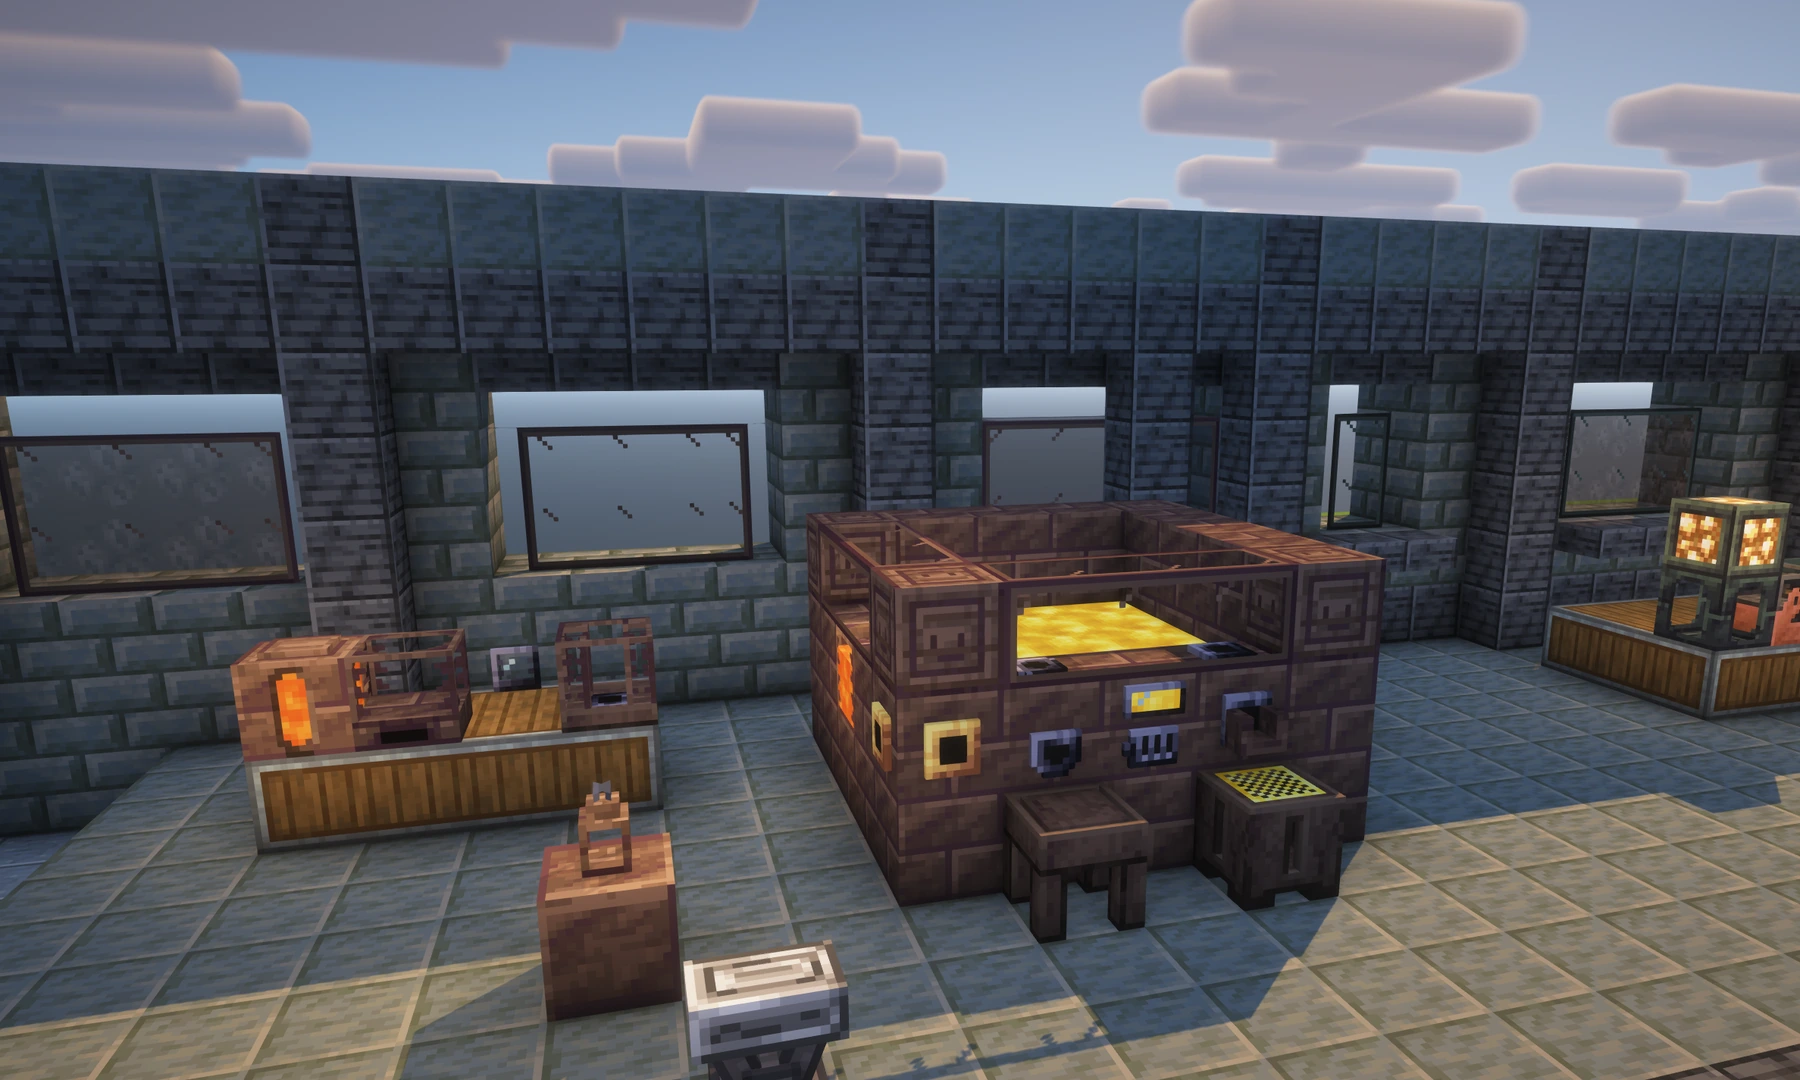
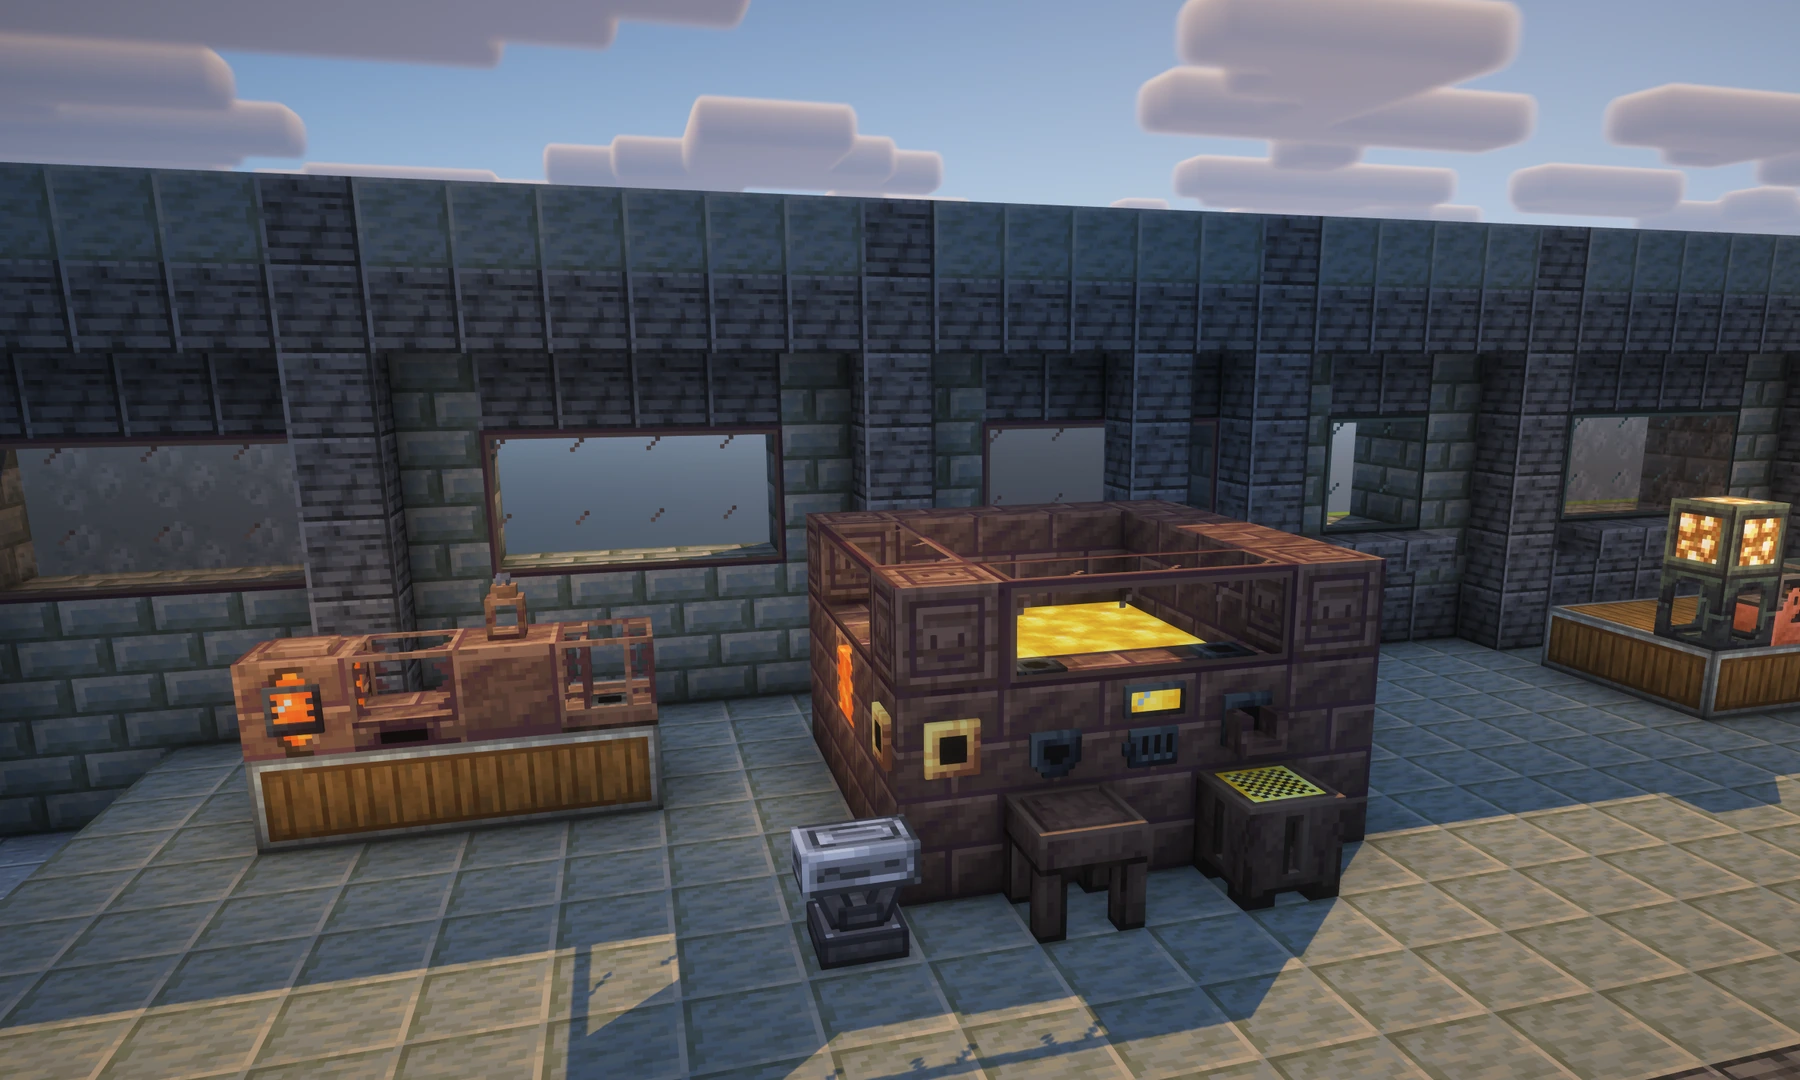
Darken the foundry fittings and update showcase images

diff --git a/build_resourcepacks.py b/build_resourcepacks.py
@@ -15,7 +15,7 @@ SMELTERY = "block/smeltery/"
 FOUNDRY = "block/foundry/"
 FOUNDRY_TABLE_PLATE = FOUNDRY + "casting/table_plate"
 FOUNDRY_COVERED_PLATE = FOUNDRY + "casting/table_plate_covered"
-VERSION = "1.1.0"
+VERSION = "1.1.1"
 HERE = Path(__file__).resolve().parent
 INDUSTRIAL_IRON = "assets/create/textures/block/industrial_iron_block"
 BRICKS = "seared/bricks"
@@ -91,13 +91,14 @@ BRASS_COLORS = {
     (253, 245, 95): (238, 193, 104),
     (255, 253, 224): (255, 235, 140),
 }
+# Use the dark metal on the side of Create's railway casing.
 STURDY_SHEET_COLORS = {
-    (16, 12, 28): (11, 13, 21),
-    (24, 19, 38): (25, 27, 36),
-    (32, 25, 51): (42, 42, 55),
-    (39, 30, 61): (67, 66, 81),
-    (59, 39, 84): (112, 110, 130),
-    (71, 47, 102): (142, 141, 161),
+    (16, 12, 28): (23, 25, 28),
+    (24, 19, 38): (30, 33, 38),
+    (32, 25, 51): (35, 38, 43),
+    (39, 30, 61): (44, 49, 53),
+    (59, 39, 84): (53, 59, 62),
+    (71, 47, 102): (68, 75, 76),
 }
 STURDY_SHEET_SURFACES = (
     "controller/foundry_", "io/chute_", "io/drain_", "io/gauge", "casting/tank_inside",
